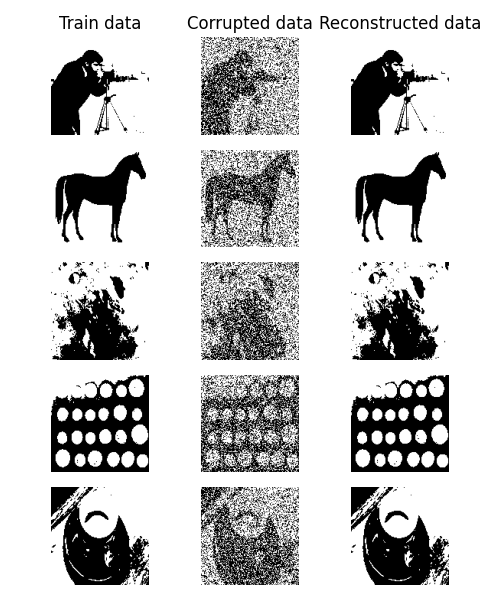
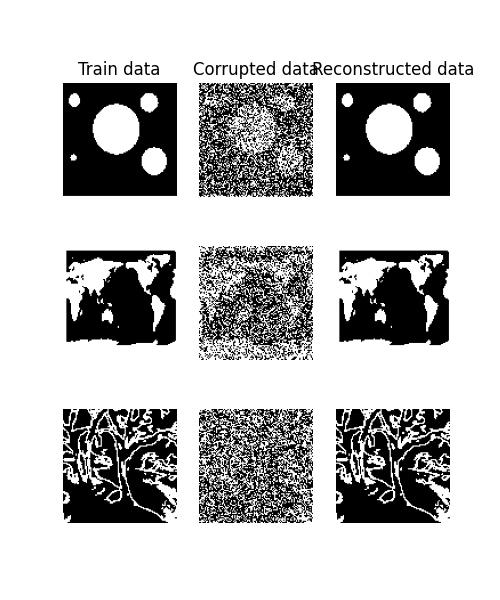
update(): add train sample

diff --git a/train_sample_data.py b/train_sample_data.py
@@ -1,0 +1,99 @@
+import numpy as np
+np.random.seed(1)
+from matplotlib import pyplot as plt
+from skimage.filters import threshold_mean
+from skimage.transform import resize
+from numba import njit, prange
+import hopfield
+from PIL import Image
+import os
+
+# Utility Functions with Numba optimization
+@njit(parallel=True, fastmath=True)
+def get_corrupted_input(input_data, corruption_level):
+    """Corrupt the input by inverting values based on the corruption level."""
+    corrupted_data = np.copy(input_data).astype(np.float32)  # Ensure float32
+    inversion = np.random.binomial(n=1, p=corruption_level, size=len(input_data))
+    for idx in prange(len(input_data)):
+        if inversion[idx]:
+            corrupted_data[idx] = -input_data[idx]
+    return corrupted_data
+
+@njit
+def reshape_image(data):
+    """Reshape a flat array into a square 2D array."""
+    dim = int(np.sqrt(len(data)))
+    return np.reshape(data, (dim, dim))
+
+# Keeping plot_results without Numba as plotting doesn’t benefit from it
+def plot_results(original, corrupted, predicted, figsize=(5, 6)):
+    """Plot and compare original, corrupted, and predicted data."""
+    original_images = [reshape_image(d) for d in original]
+    corrupted_images = [reshape_image(d) for d in corrupted]
+    predicted_images = [reshape_image(d) for d in predicted]
+
+    fig, axarr = plt.subplots(len(original_images), 3, figsize=figsize)
+    for i in range(len(original_images)):
+        if i == 0:
+            axarr[i, 0].set_title('Train data')
+            axarr[i, 1].set_title("Corrupted data")
+            axarr[i, 2].set_title('Reconstructed data')
+
+        axarr[i, 0].imshow(original_images[i], cmap='gray')
+        axarr[i, 0].axis('off')
+        axarr[i, 1].imshow(corrupted_images[i], cmap='gray')
+        axarr[i, 1].axis('off')
+        axarr[i, 2].imshow(predicted_images[i], cmap='gray')
+        axarr[i, 2].axis('off')
+
+    # plt.tight_layout()
+    plt.savefig("result.png")
+    plt.show()
+
+
+# Preprocessing can stay as it is since it contains non-loop operations
+def preprocess_image(img, width, height):
+    """Resize, binarize, and flatten an image for Hopfield Network processing."""
+    # Resize image
+    resized_img = resize(img, (width, height), mode='reflect').astype(np.float32)
+    thresh = threshold_mean(resized_img)
+    binary_img = resized_img > thresh
+    binary_shifted = 2 * binary_img.astype(np.float32) - 1  # Convert to -1, 1 format
+    return binary_shifted.flatten()
+
+
+def load_images(image_path):
+    image = Image.open(image_path)
+    numpy_image = np.array(image).astype(np.float32)
+    print(numpy_image.shape)
+    return numpy_image
+
+# Optimized main functions
+def main():
+    input_directory = "sample_data"
+    min_size = 100
+    images = []
+    for filename in os.listdir(input_directory):
+        if filename.lower().endswith(('.png', '.jpg', '.jpeg', '.bmp', '.gif')):
+            input_path = os.path.join(input_directory, filename)
+            images.append(load_images(input_path))
+            
+    print("Starting data preprocessing...")
+    processed_data = [preprocess_image(img, min_size, min_size) for img in images]
+    # Initialize and train Hopfield Network
+    model = hopfield.HopfieldNetwork()
+    model.train_weights(processed_data)
+
+    # Create corrupted test data
+    corrupted_data = [get_corrupted_input(d, corruption_level=0.35) for d in processed_data]
+
+    # Predict reconstructed images
+    predicted_data = model.predict(corrupted_data, num_iter=50, threshold=70, asynchronous=False)
+    print("Displaying prediction results...")
+    plot_results(processed_data, corrupted_data, predicted_data)
+    
+    # Optional: Display weights matrix
+    # model.plot_weights()
+
+if __name__ == '__main__':
+    main()

diff --git a/train_fashion_mnist.py b/train_fashion_mnist.py
@@ -58,10 +58,11 @@ def main():
     
     # Select training data
     data = []
-    for i in range(3):
+    for i in range(10):
         xi = x_train[y_train == i]
         data.append(xi[0])
 
+    # print(data[0])
     # Preprocessing
     print("Start to data preprocessing...")
     data = [preprocess_image(d) for d in data]
@@ -72,12 +73,13 @@ def main():
 
     # Prepare test data
     test = []
-    for i in range(5):
+    for i in range(10):
         xi = x_train[y_train == i]
         test.append(xi[1])
     test = [preprocess_image(d) for d in test]
     
-    predicted = model.predict(test, threshold=60, asynchronous=False)
+    
+    predicted = model.predict(test, threshold=70, asynchronous=False)
     print("Show prediction results...")
     plot(data, test, predicted, figsize=(5, 5))
     # Uncomment to show network weights matrix

diff --git a/hopfield.py b/hopfield.py
@@ -92,6 +92,6 @@ class HopfieldNetwork:
         plt.imshow(self.W, cmap=cm.coolwarm)
         plt.colorbar()
         plt.title("Network Weights")
-        plt.tight_layout()
+        #plt.tight_layout()
         plt.savefig("weights.png")
         plt.show()
